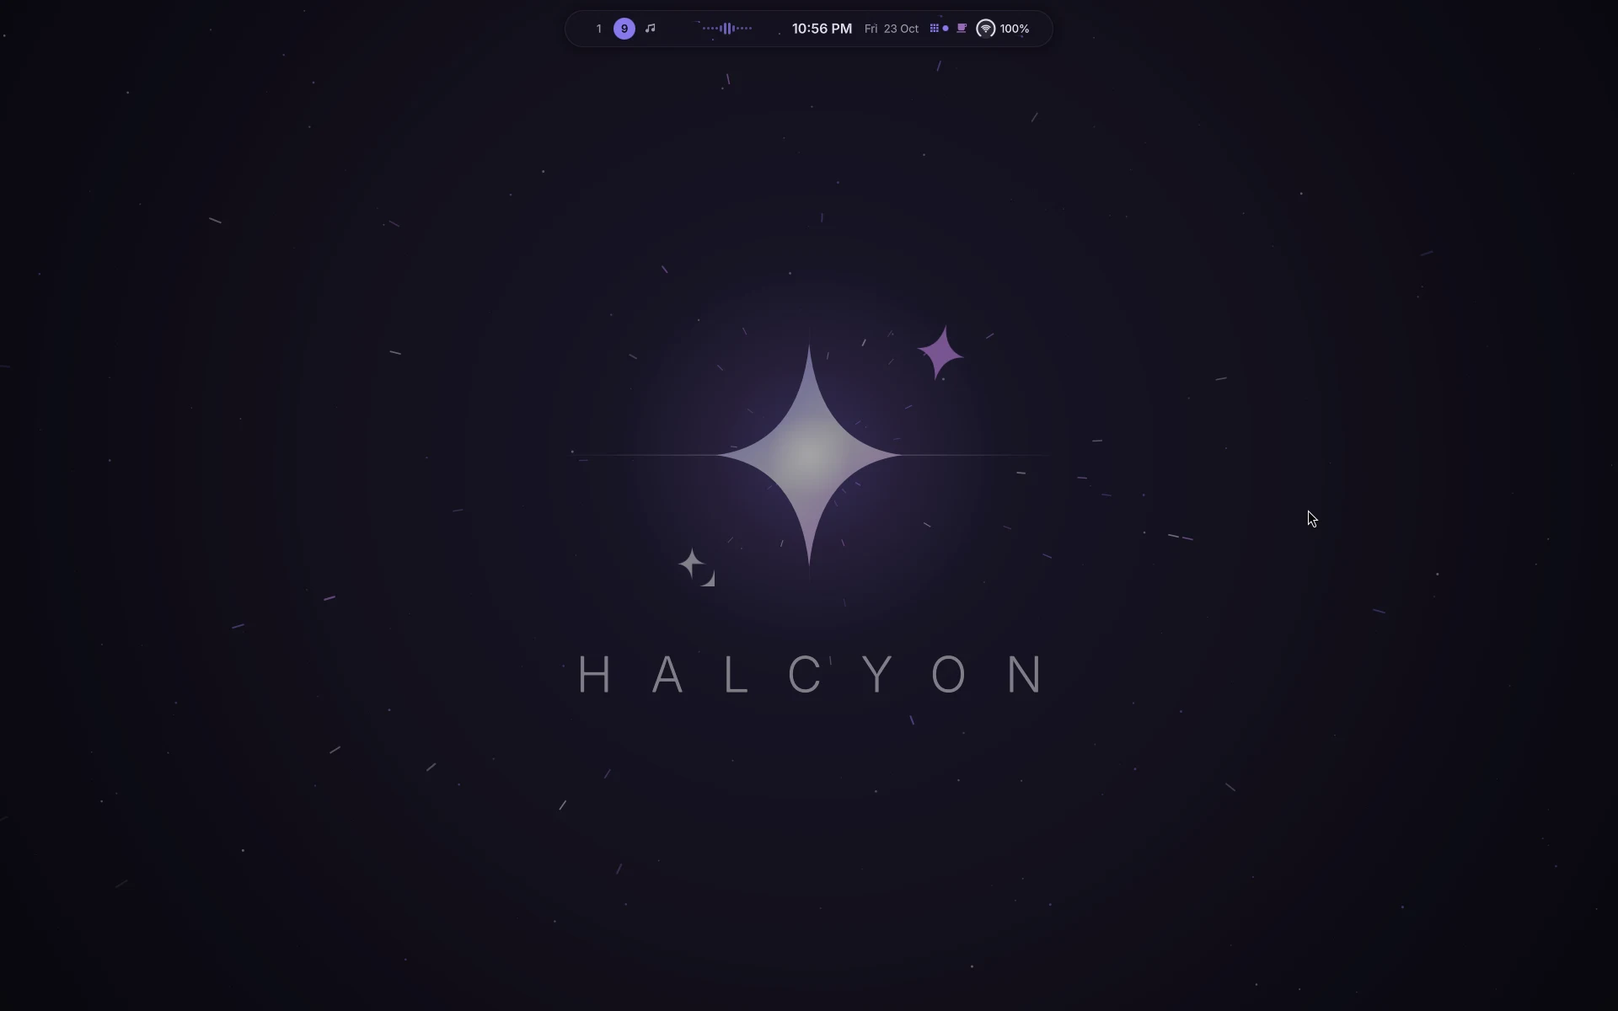
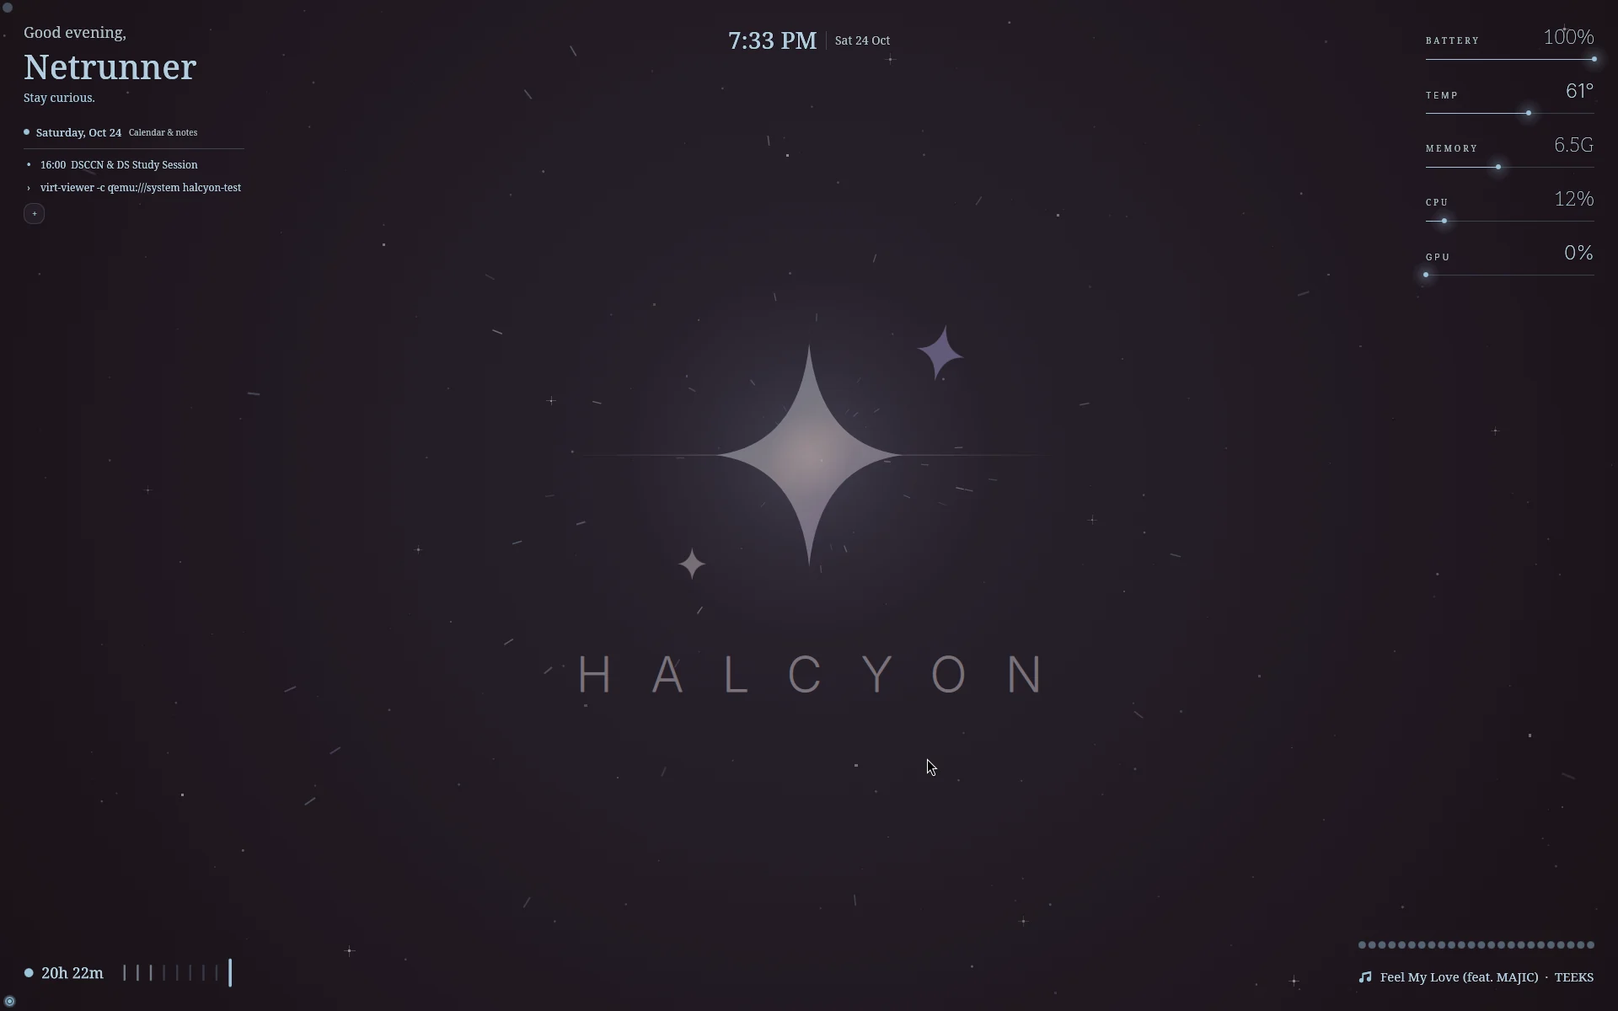
,Overview ui fix

diff --git a/quickshell/island/Settings.qml b/quickshell/island/Settings.qml
@@ -19,6 +19,11 @@ Scope {
     Connections { target: root; function onOpenChanged() { if (!root.open) { root.linger = true; lingerT.restart() } } }
     Timer { id: lingerT; interval: 340; onTriggered: root.linger = false }
     property bool consoleOpen: false
+    // the island's own picture picker over the Settings window (SetProfile's Browse): browseImage(start, function (path) {})
+    property bool imgPickOpen: false
+    property string imgPickStart: ""
+    property var imgPickCb: null
+    function browseImage(start, cb) { imgPickStart = start; imgPickCb = cb; imgPickOpen = true }
 
     // state (owned by shell.qml)
     property bool autoHide: false
@@ -623,6 +628,7 @@ Scope {
         case "focusApps": return cFocusApps
         case "dayClock": return cDayClock
         case "wallClock": return cWallClock
+        case "profile": return cProfile
         case "liveWalls": return cLiveWalls
         case "focusClock": return cFocusClock
         case "safetyAuto": return cSafetyAuto
@@ -671,6 +677,9 @@ Scope {
             { type: "slider", adv: true, key: "hy:borderSize", def: 2, label: "Border width", min: 0, max: 6, step: 1, unit: " px" },
             { type: "toggle", key: "opt:accentBorder", label: "Accent colour on the focused window", desc: "A thin border in the wallpaper's accent colour around the window you are using. Off = the neutral white hairline." },
             { type: "action", adv: true, id: "reset-look", label: "Look values", btn: "Back to the config files", done: "Reset", desc: "Forgets every window / look value changed here; hyprland/*.lua rules again." }
+        ] },
+        { id: "profile", title: "Profile", section: "Appearance", items: [
+            { type: "custom", name: "profile", label: "Profile", btn: "name avatar picture face profile overview constellation" }
         ] },
         { id: "colours", title: "Colours & night light", section: "Appearance", items: [
             { type: "custom", name: "swatches" },
@@ -1080,7 +1089,7 @@ Scope {
     // every group sits on exactly ONE page (tests/settings-groups.test.js checks it); the pages follow the section tabs of the tree
     readonly property var pages: [
         { id: "Discover", sub: "The settings you use most, everything Halcyon can do, and the guided tour.", groups: ["often", "discover"] },
-        { id: "Appearance", sub: "Look, colours, wallpaper, transparency and motion.", groups: ["look", "colours", "wallpaper", "glass", "motion"] },
+        { id: "Appearance", sub: "Look, your profile, colours, wallpaper, transparency and motion.", groups: ["look", "profile", "colours", "wallpaper", "glass", "motion"] },
         { id: "Stars & splash", sub: "Constellations, the splash, the weekly sky, time of day and the terminal greeting.", groups: ["growth", "signature", "greeting"] },
         { id: "Bar", sub: "The bar, how it behaves, and the clock.", groups: ["bar", "barbehave", "clock"] },
         { id: "Panels", sub: "Notifications, the edge boxes, the volume bar and the utilities box.", groups: ["notifications", "osd", "utilbox"] },
@@ -1184,7 +1193,7 @@ Scope {
         if (query === "" && collapsed[grp.id]) return w
         for (var i = 0; i < grp.items.length; i++) {
             var t = grp.items[i]
-            w += t.type === "custom" ? (t.name === "wallpaper" ? 9 : t.name === "apps" ? 8 : t.name === "focusApps" ? 7 : t.name === "aiModel" ? 7 : t.name === "safetyAuto" ? 5 : t.name === "counterScan" ? 6 : t.name === "dayClock" ? 13 : t.name === "wallClock" ? 5 : t.name === "liveWalls" ? 7 : t.name === "focusClock" ? 6 : t.name === "specialCmds" ? 9 : t.name === "barBuilder" ? 7 : t.name === "notifBuilder" ? 7 : t.name === "desktopBuilder" ? 7 : t.name === "widgetBuilder" ? 8 : t.name === "gestures" ? 10 : t.name === "mouseButtons" ? 7 : t.name === "discover" ? 30 : 4)
+            w += t.type === "custom" ? (t.name === "wallpaper" ? 9 : t.name === "apps" ? 8 : t.name === "focusApps" ? 7 : t.name === "aiModel" ? 7 : t.name === "safetyAuto" ? 5 : t.name === "counterScan" ? 6 : t.name === "dayClock" ? 13 : t.name === "wallClock" ? 5 : t.name === "profile" ? 6 : t.name === "liveWalls" ? 7 : t.name === "focusClock" ? 6 : t.name === "specialCmds" ? 9 : t.name === "barBuilder" ? 7 : t.name === "notifBuilder" ? 7 : t.name === "desktopBuilder" ? 7 : t.name === "widgetBuilder" ? 8 : t.name === "gestures" ? 10 : t.name === "mouseButtons" ? 7 : t.name === "discover" ? 30 : 4)
                : (t.type === "seg" || t.type === "slider" || t.type === "chips" || t.type === "acts") ? 2.2 : 1.2
             if (t.desc) w += 0.7
         }
@@ -1251,6 +1260,8 @@ Scope {
     // Wallpaper timeline (top of Settings > Wallpaper): when the picture last changed. wallpaper.sh saves the time when it really
     // changes (wallpaper-changed); an install from before that has no file yet, and then the date of the wallpaper state file is used.
     Component { id: cWallClock; SetWallClock { root: settingsScope } }
+    // the name and picture of the Overview's laptop node (it was the Overview's own "Edit profile" card)
+    Component { id: cProfile; SetProfile { root: settingsScope } }
     Component { id: cLiveWalls; SetLiveWall { root: settingsScope } }
 
     // Focus streak timeline (top of Settings > Focus mode): days in a row you reached the goal, against your best streak. The goal is
@@ -1299,6 +1310,18 @@ Scope {
             anchors.fill: parent
             opacity: root.open ? 1 : 0
             Behavior on opacity { NumberAnimation { duration: root.pal.dMed; easing.type: Easing.InOutSine } }
+            // the picture picker of Settings > Profile, over everything in this window
+            Loader {
+                z: 100
+                anchors.fill: parent
+                active: root.imgPickOpen
+                sourceComponent: ImagePicker {
+                    pal: root.pal
+                    Component.onCompleted: openAt(root.imgPickStart)
+                    onPicked: path => { if (root.imgPickCb) root.imgPickCb(path); root.imgPickOpen = false }
+                    onCancelled: root.imgPickOpen = false
+                }
+            }
             focus: root.open
             Keys.onPressed: e => { if (e.key === Qt.Key_Escape) { root.hide(); e.accepted = true } }
             // the search box must be focused from in here: `search` is not visible from the root scope (this window is built by a LazyLoader)

diff --git a/quickshell/island/Overview.qml b/quickshell/island/Overview.qml
@@ -614,7 +614,6 @@ Item {
         if (e.key === Qt.Key_Escape && ov.dragState === "drag") { ov.cancelDrag(); e.accepted = true }
         else if (e.key === Qt.Key_Escape || e.key === Qt.Key_Q) { ov.closeRequested(); e.accepted = true }
         else if (e.key === Qt.Key_S) { ov.compactToggled(!ov.compactSpecial); e.accepted = true }
-        else if (e.key === Qt.Key_E || e.key === Qt.Key_P) { ov.editing = true; e.accepted = true }
     }
 
     // full-screen dim behind the tree. The compositor no longer blurs this layer (memory saving), so it is nearly solid:
@@ -1280,22 +1279,14 @@ Item {
             font.pixelSize: 22
             font.weight: Font.DemiBold
         }
-        Text {
-            x: ov.pal.centred ? (ovHead.width - width) / 2 : 0
-            text: ov.plural(ov.wsCount, "workspace") + " · " + ov.plural(ov.winCount, "window") + " · " + ov.hostName
-                  + (ov.totalRes !== "" ? "  ·  apps use " + ov.totalRes : "")
-            color: ov.pal.muted
-            font.family: ov.pal.uiFont
-            font.pixelSize: 12
-        }
     }
 
 
-    // ---- Halcyon's own footprint, under the header on the left: just a few quiet lines, a faint star for each bullet.
+    // ---- Halcyon's own footprint, top left (level with the title): just a few quiet lines, a faint star for each bullet
     Column {
         id: halCard
         x: 40
-        y: 34 + 54
+        y: 34
         width: 240
         spacing: 1
         opacity: ov.open ? 1 : 0
@@ -1339,71 +1330,44 @@ Item {
         y: 36
         spacing: 10
 
-        // compact specials toggle
-        Rectangle {
-            height: 34
-            width: tglRow.implicitWidth + 28
-            radius: 17
-            color: Qt.alpha(ov.pal.surface, tglMa.containsMouse ? 1 : 0.85)
-            border.width: 1
-            border.color: Qt.alpha(ov.pal.accent2, 0.35)
-            Behavior on color { ColorAnimation { duration: 140 } }
-            Row {
-                id: tglRow
-                anchors.centerIn: parent
-                spacing: 10
+        // compact special workspaces: one button that glows while it is on (S toggles it too)
+        // (Edit profile moved to Settings > Appearance > Profile)
+        Item {
+            width: tglBtn.width; height: tglBtn.height
+            Rectangle {
+                anchors.fill: tglBtn
+                anchors.margins: -5
+                radius: height / 2
+                color: ov.pal.accent
+                opacity: ov.compactSpecial ? 0.16 : 0
+                Behavior on opacity { NumberAnimation { duration: 220 } }
+            }
+            Rectangle {
+                id: tglBtn
+                height: 34
+                width: tglTxt.implicitWidth + 32
+                radius: 17
+                color: ov.compactSpecial ? Qt.alpha(ov.pal.accent, tglMa.containsMouse ? 0.30 : 0.22)
+                                         : (tglMa.containsMouse ? ov.pal.fillHover : ov.pal.fill)
+                border.width: ov.compactSpecial ? 1 : 0
+                border.color: Qt.alpha(ov.pal.accent, 0.55)
+                Behavior on color { ColorAnimation { duration: 160 } }
                 Text {
-                    anchors.verticalCenter: parent.verticalCenter
-                    text: "Compact special workspaces"
-                    color: ov.pal.text
+                    id: tglTxt
+                    anchors.centerIn: parent
+                    text: "Compact specials"
+                    color: ov.compactSpecial ? ov.pal.chosenText : ov.pal.muted
                     font.family: ov.pal.uiFont
                     font.pixelSize: 12
+                    font.weight: ov.compactSpecial ? Font.DemiBold : Font.Normal
                 }
-                Rectangle {
-                    anchors.verticalCenter: parent.verticalCenter
-                    width: 34; height: 18; radius: 9
-                    color: ov.compactSpecial ? ov.pal.accent2 : Qt.alpha(ov.pal.muted, 0.35)
-                    Behavior on color { ColorAnimation { duration: 160 } }
-                    Rectangle {
-                        y: 2
-                        x: ov.compactSpecial ? parent.width - width - 2 : 2
-                        width: 14; height: 14; radius: 7
-                        color: ov.pal.bg
-                        Behavior on x { NumberAnimation { duration: 180; easing.type: Easing.OutCubic } }
-                    }
+                MouseArea {
+                    id: tglMa
+                    anchors.fill: parent
+                    hoverEnabled: true
+                    cursorShape: Qt.PointingHandCursor
+                    onClicked: ov.compactToggled(!ov.compactSpecial)
                 }
-            }
-            MouseArea {
-                id: tglMa
-                anchors.fill: parent
-                hoverEnabled: true
-                cursorShape: Qt.PointingHandCursor
-                onClicked: ov.compactToggled(!ov.compactSpecial)
-            }
-        }
-
-        Rectangle {
-            height: 34
-            width: edTxt.implicitWidth + 28
-            radius: 17
-            color: Qt.alpha(ov.pal.surface, edMa.containsMouse ? 1 : 0.85)
-            border.width: 1
-            border.color: Qt.alpha(ov.pal.accent, 0.35)
-            Behavior on color { ColorAnimation { duration: 140 } }
-            Text {
-                id: edTxt
-                anchors.centerIn: parent
-                text: String.fromCodePoint(0xF03EB) + "  Edit profile"
-                color: ov.pal.text
-                font.family: ov.pal.font
-                font.pixelSize: 12
-            }
-            MouseArea {
-                id: edMa
-                anchors.fill: parent
-                hoverEnabled: true
-                cursorShape: Qt.PointingHandCursor
-                onClicked: ov.editing = true
             }
         }
     }
@@ -1412,7 +1376,8 @@ Item {
         anchors.horizontalCenter: parent.horizontalCenter
         anchors.bottom: parent.bottom
         anchors.bottomMargin: 26
-        text: "Esc close"
+        text: ov.plural(ov.wsCount, "workspace") + "  ·  " + ov.plural(ov.winCount, "window") + "  ·  " + ov.hostName
+              + (ov.totalRes !== "" ? "  ·  apps use " + ov.totalRes : "")
         color: ov.pal.muted
         font.family: ov.pal.uiFont
         font.pixelSize: 11

diff --git a/quickshell/island/SetProfile.qml b/quickshell/island/SetProfile.qml
@@ -1,0 +1,82 @@
+import QtQuick
+import QtQuick.Layouts
+import Quickshell
+
+// Settings custom leaf "profile" (Settings > Appearance > Profile; it used to be the Overview's "Edit profile" card): the name
+// on the laptop node of the Overview and the picture its constellation is made from. `root` is the Settings scope, root.env the
+// shell, which keeps both (profileName / profileAvatar) and saves them (setProfileInfo). Browse opens the island's own picture
+// picker over Settings (root.browseImage): a file dialog would be an ordinary window, under the Settings layer.
+ColumnLayout {
+    property var root                  // the Settings scope (it hands itself in)
+    id: pf
+    width: parent ? parent.width : 0
+    spacing: 10
+
+    readonly property var shell: root ? root.env : null
+    readonly property var pal: root ? root.pal : null
+    readonly property string savedName: shell ? String(shell.profileName || "") : ""
+    readonly property string savedAvatar: shell ? String(shell.profileAvatar || "") : ""
+    readonly property bool changed: nameIn.text.trim() !== savedName || avIn.text.trim() !== savedAvatar
+    Component.onCompleted: { nameIn.text = savedName; avIn.text = savedAvatar }
+
+    component Field: Rectangle {
+        property var pal                 // (an inline component can not see the ids of this file)
+        default property alias content: inner.data
+        Layout.fillWidth: true
+        implicitHeight: 38
+        radius: height / 2
+        color: pal.zen ? pal.field : Qt.alpha(pal.bg, 0.55)
+        Item { id: inner; anchors { fill: parent; leftMargin: 16; rightMargin: 16 } }
+    }
+
+    RowLayout {
+        Layout.fillWidth: true
+        spacing: 12
+        Text { Layout.preferredWidth: 110; text: "Name"; color: pf.pal.muted; font.family: pf.pal.uiFont; font.pixelSize: pf.pal.tBody }
+        Field {
+            pal: pf.pal
+            TextInput {
+                id: nameIn
+                anchors.fill: parent
+                verticalAlignment: TextInput.AlignVCenter
+                clip: true
+                color: pf.pal.text
+                selectionColor: Qt.alpha(pf.pal.accent, 0.4)
+                font.family: pf.pal.uiFont; font.pixelSize: pf.pal.tBody
+                Keys.onReturnPressed: pf.save()
+                Text { anchors.verticalCenter: parent.verticalCenter; visible: nameIn.text === ""; text: Quickshell.env("USER"); color: pf.pal.muted; font: nameIn.font }
+            }
+        }
+    }
+    RowLayout {
+        Layout.fillWidth: true
+        spacing: 12
+        Text { Layout.preferredWidth: 110; text: "Picture"; color: pf.pal.muted; font.family: pf.pal.uiFont; font.pixelSize: pf.pal.tBody }
+        Field {
+            pal: pf.pal
+            TextInput {
+                id: avIn
+                anchors.fill: parent
+                verticalAlignment: TextInput.AlignVCenter
+                clip: true
+                color: pf.pal.text
+                selectionColor: Qt.alpha(pf.pal.accent, 0.4)
+                font.family: pf.pal.uiFont; font.pixelSize: pf.pal.tBody
+                Keys.onReturnPressed: pf.save()
+                Text { anchors.verticalCenter: parent.verticalCenter; visible: avIn.text === ""; text: "~/.face"; color: pf.pal.muted; font: avIn.font }
+            }
+        }
+        Chip { pal: pf.pal; label: "Browse"; onClicked: pf.root.browseImage(avIn.text.trim() !== "" ? avIn.text.trim() : Quickshell.env("HOME") + "/Pictures", function (p) { avIn.text = p }) }
+    }
+    RowLayout {
+        Layout.fillWidth: true
+        visible: pf.changed
+        Item { Layout.fillWidth: true }
+        Chip { pal: pf.pal; label: "Undo"; onClicked: { nameIn.text = pf.savedName; avIn.text = pf.savedAvatar } }
+        Chip { pal: pf.pal; label: "Save"; primary: true; onClicked: pf.save() }
+    }
+
+    function save() {
+        if (shell && shell.setProfileInfo) shell.setProfileInfo(nameIn.text.trim(), avIn.text.trim())
+    }
+}

diff --git a/changelog.md b/changelog.md
@@ -1,3 +1,4 @@
+- **Profile in Settings, a quieter Overview header, every README screenshot new** (new `SetProfile.qml`, `Settings.qml`, `Overview.qml`, `docs/screenshots/`, `README.md`). **Profile:** the name and picture of the Overview's laptop node are set in Settings > Appearance > Profile (with the island's own picture picker over Settings); the Overview's Edit profile button and its E / P keys are gone. **Overview:** Compact specials is one button that glows while it is on (S still toggles it); Halcyon's own CPU / RAM sit top left, level with the centred title; the workspaces · windows · host · apps line moved to the bottom middle, and "Esc close" is gone. **Screenshots:** desktop (the live Halcyon sky), the customised desktop, the widget builder with your widgets, placing widgets on the desktop, and the Overview (it replaces the Settings constellation as `tree.webp`; its README line says so). Tested: `halcyon selftest --quick`, the island restarts clean, the Overview and Settings > Appearance > Profile on screen. **Untested: Save and Browse in Profile.**
 - **Shortcuts and Console commands: a clean title bar, the search at the bottom, room to breathe** (`Cheatsheet.qml`, `CmdTree.qml`, `docs/screenshots/shortcuts.webp`). Both windows have only the title and ✕ on top; the search sits in a bar at the bottom (Shortcuts also has the Tree / Pages switch there). The "42 shown · click one …" line that ran behind the centred title of Console commands is gone (it shows with Hide explanations off, at the bottom). In the New style the Shortcuts pages have taller rows on a soft fill and, on a wide window, a page splits into two columns. Fixed on the way: the column count of both layouts read `card`, which the root scope can not see (a LazyLoader), so it always fell back to its default. Tested: `halcyon selftest --quick`, both windows on screen.
 - **A month picker under the calendar's title; notes, focus graph and search boxes polished; new screenshots** (`Calendar.qml`, `NotesMenu.qml`, `FocusStreak.qml`, `Settings.qml`, `Cheatsheet.qml`, `docs/screenshots/`). **Calendar:** the row of month names is gone; the month's name has a small ▾ and opens a picker under it (the year with arrows, the twelve months, Today); Esc or a click beside it closes it; scrolling over the month still moves a month. **Notes:** the + sits on the right of the bottom row, Organise and Clear completed on the left; after a note is saved the writing box goes back in. **Focus graph:** a hovered day's minutes show in the same place every time, at the top of the chart above all the bars (the bars leave room for it), and the bar lights up; the goal is said in the heading instead of on top of today's bar. **Search boxes:** the New style's placeholder is in the text font, not the icon font. **Screenshots:** launcher, settings, shortcuts, Game Center, Study, calendar and the five builders taken again in the new look, plus firewall, notes, focus, gallery, startup, displays and quick-settings. Tested: `halcyon selftest --quick`, the month picker, notes + and the focus graph hover on screen.
 - **Windows stay open while the console works; every window fades out; tidier Firewall Center, Calendar, Game Center, notes, gallery and focus graph; `>game` keeps your star** (`FwCenter.qml`, `GameCenter.qml`, `StudyCenter.qml`, `shell.qml`, `Settings.qml`, `Cheatsheet.qml`, `Calendar.qml`, `PowerMenu.qml`, `CmdTree.qml`, `DisplayPicker.qml`, `NotesMenu.qml`, `WallpaperGallery.qml`, `FocusStreak.qml`, `Chip.qml`, `Launcher.qml`). **Console:** Firewall Center, Game Center and Study no longer close when they send a command; the console opens over them and has the keyboard, the window stays until you close it (a full terminal, like the firewall's dashboard, still makes the window step aside: an app window can not show above it). **Closing:** Settings, Shortcuts, Calendar, the power menu, console commands and the display window now fade out instead of vanishing (they live 340 ms longer, like the others). IPC `closeTop` also closes Firewall Center and the focus graph. **Firewall Center:** the tab headers leave room for the ✕; the state and uptime sit under its name, the interface and profile under Overview's title; tab explanations follow Hide explanations. **Calendar:** Birthdays and Holidays moved into its settings (the gear); the arrows are replaced by the twelve months of the year in the header, scrolling over the month moves a month (on into the next / last year), Page Up / Down still work. **Game Center:** the store chips are one "All games ▾" drop-down, Refresh and Add game are icon buttons, more room around the search. **Notes:** the top is just the title; +, Organise and Clear completed sit together at the bottom left; + opens a writing box under the list (Enter saves and keeps it for the next note) instead of closing the list. **Gallery:** the single and grid views cut their pictures to the rounded cards (`ClippingRectangle`). **Focus graph:** the minutes of a hovered day are a bubble above the bar (they were drawn on the bar and could not be read). **Launcher:** `>game` lists a starred command (Game Center) above every game, and any "Game …" command above unstarred games. Tested: `halcyon selftest --quick`, the island reloads, Firewall Center with the console over it, the calendar, Game Center and notes on screen. **Untested on screen: the gallery's single / grid views, the focus graph bubble, the store drop-down opened, Game Center / Study with the console.**

diff --git a/README.md b/README.md
@@ -21,7 +21,7 @@ Everything below is how Halcyon looks right after installing, before you change 
 | ![Study Center](docs/screenshots/study.webp) | **Study Center.** Add your PDFs, slides and notes, then ask questions about them or make summaries, quizzes and flashcards, all with a local AI model on your own machine. |
 | ![Calendar](docs/screenshots/calendar.webp) | **Calendar and notes.** Your month, your day's notes and reminders, plus birthdays and holidays. |
 | ![Settings](docs/screenshots/settings.webp) | **Settings that explain themselves.** Every option is searchable. Most of them have a short explanation, and there is a guided tour that shows you around step by step. |
-| ![Settings as a constellation](docs/screenshots/tree.webp) | **Or see everything at once.** The tree view lays out all the settings as one constellation. Too busy for you? Turn the constellations off (Settings > Discover > *Constellations in the boxes*, and *Tree view constellation* under Performance) for the plain look in the other shots. |
+| ![Overview](docs/screenshots/tree.webp) | **Overview.** <kbd>Super</kbd> + <kbd>Tab</kbd> shows every workspace and window as one constellation: click one to go there, drag a window onto another workspace. Halcyon's own CPU and memory use sit in the corner. |
 | ![Shortcuts](docs/screenshots/shortcuts.webp) | **Every shortcut in one place.** <kbd>Super</kbd> + <kbd>/</kbd> opens a searchable map of all the key binds, gestures and commands. |
 
 There's more: clipboard history, screenshots, notifications and music in the island, a lock screen with widgets, live wallpapers,
